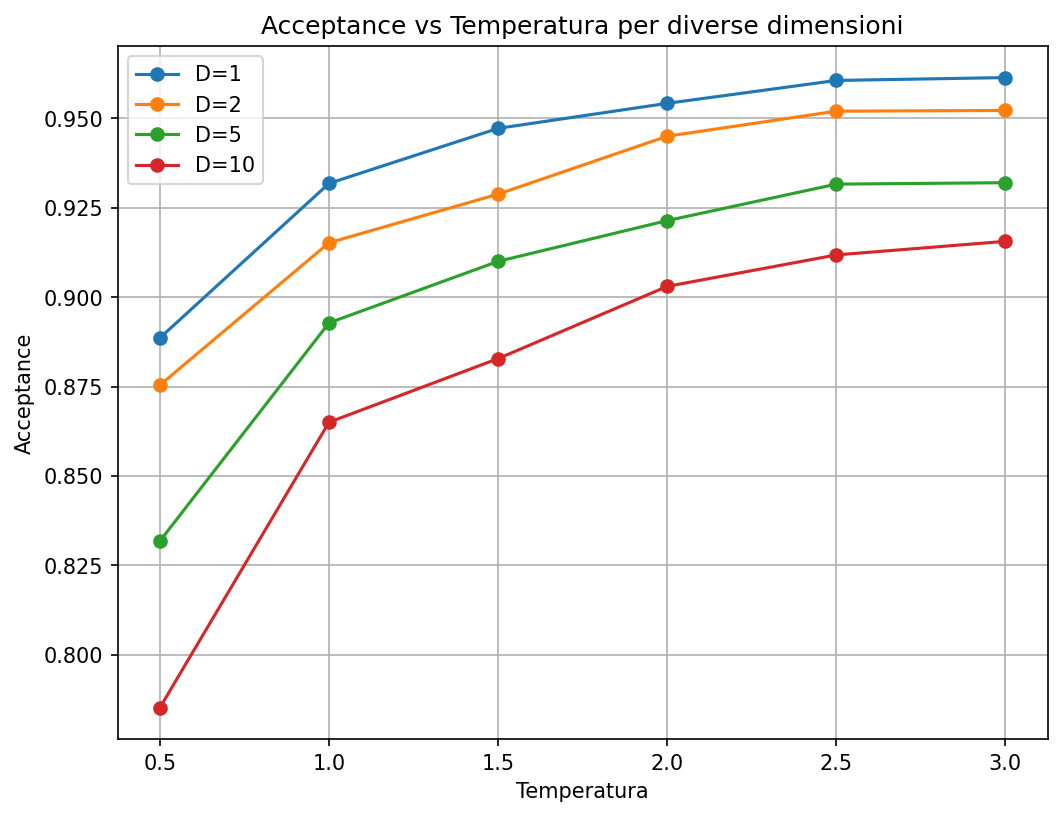
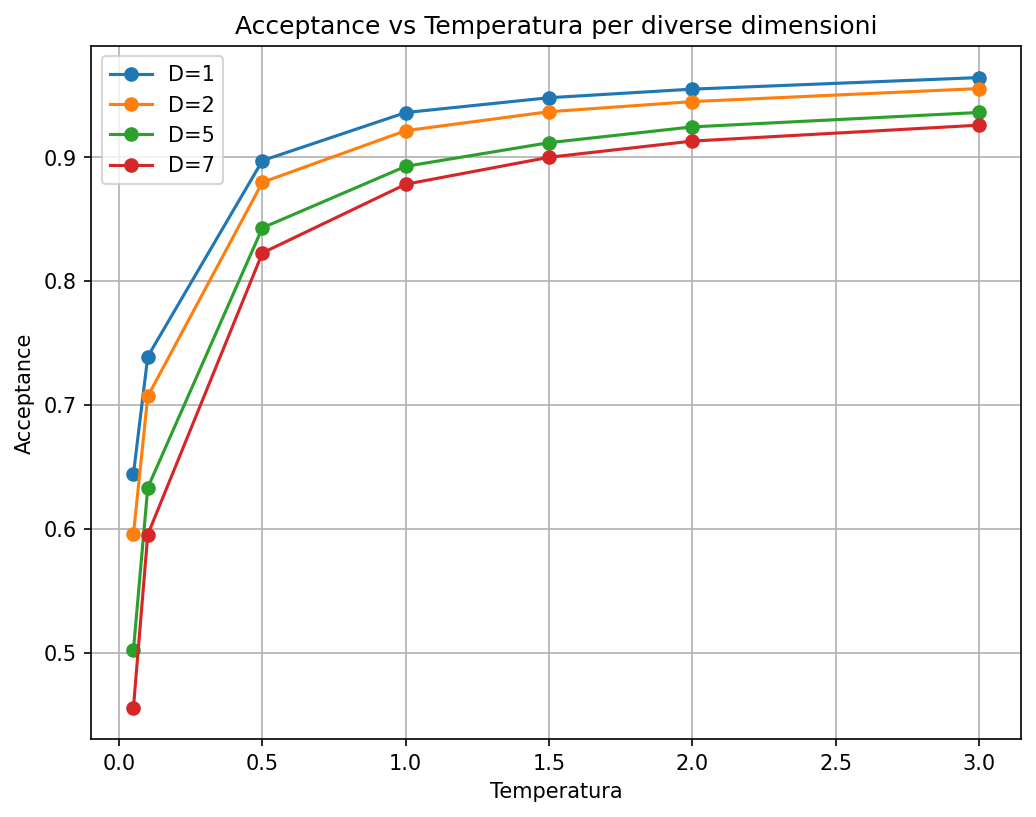
barrier crossing rate, errors with blocking, still some problems with the heat capacity

diff --git a/source/plot.py b/source/plot.py
@@ -7,29 +7,52 @@ REPORT_DIR = os.path.join(os.path.dirname(__file__), "..", "report")
 def _ensure_report_dir():
     os.makedirs(REPORT_DIR, exist_ok=True)
 
-def plot_obs__D_T(results, dimensions, observable):
+def plot_obs__D_T(results, dimensions, observable, error=None):
     _ensure_report_dir()
-    plt.figure(figsize=(8,6))
+    if error is None:
+        plt.figure(figsize=(8,6))
 
-    for D in dimensions:
-        plt.plot(
-            results[D]["T"],
-            results[D][observable],
-            marker='o',
-            label=f"D={D}"
-        )
+        for D in dimensions:
+            plt.plot(
+                results[D]["T"],
+                results[D][observable],
+                marker='o',
+                label=f"D={D}"
+            )
 
-    plt.xlabel("Temperatura")
-    plt.ylabel(observable.replace('_', ' ').capitalize())
-    plt.title(f"{observable.replace('_', ' ').capitalize()} vs Temperatura per diverse dimensioni")
-    plt.legend()
-    plt.grid()
+        plt.xlabel("Temperatura")
+        plt.ylabel(observable.replace('_', ' ').capitalize())
+        plt.title(f"{observable.replace('_', ' ').capitalize()} vs Temperatura per diverse dimensioni")
+        plt.legend()
+        plt.grid()
 
-    filename = f"{observable}_vs_T.png"
-    filepath = os.path.join(REPORT_DIR, filename)
-    plt.savefig(filepath, dpi=150, bbox_inches="tight")
-    print(f"Grafico salvato in: {filepath}")
-    plt.close()
+        filename = f"{observable}_vs_T.png"
+        filepath = os.path.join(REPORT_DIR, filename)
+        plt.savefig(filepath, dpi=150, bbox_inches="tight")
+        print(f"Grafico salvato in: {filepath}")
+        plt.close()
+    else: # plot with error bars
+        plt.figure(figsize=(8,6))
+
+        for D in dimensions:
+            plt.errorbar(
+                    results[D]["T"],
+                    results[D][observable],
+                    yerr=results[D][f"{observable}_err"],
+                    marker='o',
+                    label=f"D={D}"
+                )
+        plt.xlabel("Temperatura")
+        plt.ylabel(observable.replace('_', ' ').capitalize())
+        plt.title(f"{observable.replace('_', ' ').capitalize()} vs Temperatura per diverse dimensioni")
+        plt.legend()
+        plt.grid()
+
+        filename = f"{observable}_vs_T.png"
+        filepath = os.path.join(REPORT_DIR, filename)
+        plt.savefig(filepath, dpi=150, bbox_inches="tight")
+        print(f"Grafico salvato in: {filepath}")
+        plt.close()
 
 def plot_trajectory(trajectories, temperatures, dimensions, bins=30):
     _ensure_report_dir()

diff --git a/source/observable.py b/source/observable.py
@@ -19,31 +19,64 @@ def heat_capacity(trajectory, T):
 def autocorrelation(x):
     x = x - jnp.mean(x)
     n = len(x)
+
     f = jnp.fft.fft(x, n=2*n)
     corr = jnp.fft.ifft(f * jnp.conj(f)).real[:n]
-    return corr / corr[0]
+
+    corr = corr / jnp.arange(n, 0, -1)
+    corr = corr / corr[0]
+
+    return corr
 
 def integrated_autocorrelation_time(x, c=5.0):
     corr = autocorrelation(x)
     tau = 0.5
     for t in range(1, len(corr)):
-        tau += float(corr[t])
+        tau += corr[t]
         if t >= c * tau:  # finestra self-consistent
             break
     return tau
 
+def barrier_crossings_rate(trajectory, eps=1e-3):
+    x = trajectory[:,0]
+
+    valid = jnp.abs(x) > eps
+    x = x[valid]
+
+    signs = jnp.sign(x)
+
+    return jnp.sum(signs[:-1] * signs[1:] < 0)/len(x)
+
+def blocking_error(data, block_size):
+    n_blocks = len(data) // block_size
+    data = data[:n_blocks * block_size]
+
+    blocks = data.reshape(n_blocks, block_size)
+    means = jnp.mean(blocks, axis=1)
+
+    err = jnp.sqrt(jnp.var(means)/(n_blocks-1))
+
+    return err
+
 def append_observables(results, trajectories, D, T, trajectory, acceptance_rate):
-    E_mean = mean_energy(trajectory)
-    Cv = heat_capacity(trajectory, T)
     tau_x= integrated_autocorrelation_time(trajectory[:,0])
-    tau_x2 = integrated_autocorrelation_time(trajectory[:,0]**2)
+    block_size = max(10, 2*int(tau_x))
+    E_mean = mean_energy(trajectory)
+    E_mean_err = blocking_error(jax.vmap(V)(trajectory), block_size)
+    Cv = heat_capacity(trajectory, T)
+    Cv_err = blocking_error(jax.vmap(lambda x: (V(x) - E_mean)**2)(trajectory), block_size)
+    crossings_r = barrier_crossings_rate(trajectory)
+    crossings_r_err = jnp.sqrt(crossings_r)/len(trajectory[:,0])  # standard error assuming Poisson distribution
 
     results[D]["T"].append(T)
     results[D]["E_mean"].append(E_mean)
+    results[D]["E_mean_err"].append(E_mean_err)
     results[D]["Cv"].append(Cv)
+    results[D]["Cv_err"].append(Cv_err)
     results[D]["acceptance"].append(acceptance_rate)
     results[D]["tau_x"].append(tau_x)
-    results[D]["tau_x^2"].append(tau_x2)
-
+    results[D]["barrier_crossings_rate"].append(crossings_r)
+    results[D]["barrier_crossings_rate_err"].append(crossings_r_err)
+    
     trajectories[D].append(trajectory[:,0])
     

diff --git a/source/main.py b/source/main.py
@@ -6,13 +6,13 @@ import jax.numpy as jnp
 
 
 def main():
-    dimensions = [1, 2, 5, 10]
-    temperatures = jnp.linspace(0.5, 3.0, 6)
-    n_thermalization = 40000
-    n_steps = 5000
+    dimensions = [1, 2, 5, 7]
+    temperatures = [0.05 ,0.1, 0.5, 1.0, 1.5, 2.0, 3.0]
+    n_thermalization = 200000
+    n_steps = 50000
     step_size = 0.1
-    trajectories = {}
 
+    trajectories = {}
     results = {}
     for D in dimensions:
 
@@ -21,13 +21,17 @@ def main():
         results[D] = {
             "T": [],
             "E_mean": [],
+            "E_mean_err": [],
             "Cv": [],
+            "Cv_err": [],
             "acceptance": [],
             "tau_x": [],
-            "tau_x^2": []
+            "barrier_crossings_rate": [],
+            "barrier_crossings_rate_err": []
         }
+
         key = jax.random.PRNGKey(0)
-        x, key = metro.generate_config(key, D, "zeros")
+        x, key = metro.generate_config(key, D, "ones")
 
         for T in temperatures:
             # thermalization
@@ -35,16 +39,15 @@ def main():
             # production
             trajectory, acceptance_rate, key , x = metro.run_simulation(
                 key, T, n_steps, step_size, initial_x=x)
-            
-
+            # append observables to results
             obs.append_observables(results,trajectories, D, T, trajectory, acceptance_rate)
             print(f"D={D}, T={T:.3f}.")
-
-    plot.plot_obs__D_T(results, dimensions, "E_mean")
-    plot.plot_obs__D_T(results, dimensions, "Cv")
+    # plot results
+    plot.plot_obs__D_T(results, dimensions, "E_mean", error=True)
+    plot.plot_obs__D_T(results, dimensions, "Cv", error=True)
     plot.plot_obs__D_T(results, dimensions, "tau_x")
-    plot.plot_obs__D_T(results, dimensions, "tau_x^2")
     plot.plot_obs__D_T(results, dimensions, "acceptance")
+    plot.plot_obs__D_T(results, dimensions, "barrier_crossings_rate", error=True)
     plot.plot_trajectory(trajectories, temperatures, dimensions, bins=30)
 
 if __name__ == "__main__":
